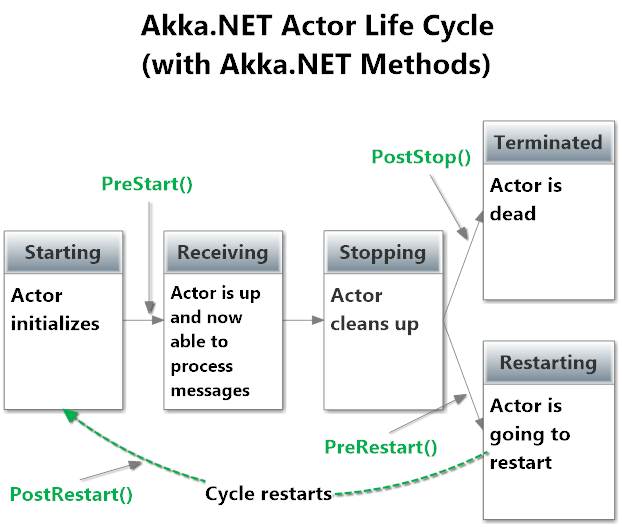
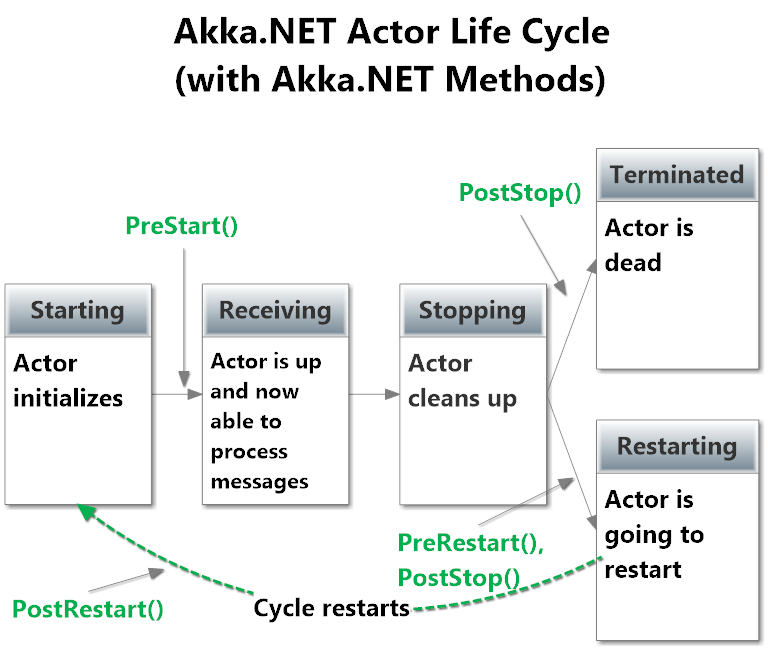
close #138

diff --git a/src/Unit-1/lesson6/README.md b/src/Unit-1/lesson6/README.md
@@ -49,7 +49,7 @@ So, how can you link into the actor life cycle? Here are the 4 places you can ho
 If your actor accidentally fails (i.e. throws an unhandled Exception) the actor's parent will restart the actor. `PreRestart` is where you can hook in to do cleanup before the actor restarts, or to save the current message for reprocessing later.
 
 #### `PostStop`
-`PostStop` is called once the actor has stopped and is no longer receiving messages. This is a good place to include clean-up logic. PostStop does not get called during actor restarts - only when an actor is being terminated.
+`PostStop` is called once the actor has stopped and is no longer receiving messages. This is a good place to include clean-up logic. PostStop also gets called during `PreRestart`, but you can override `PreRestart` and simply not call `base.PreRestart` if you want to avoid this behavior during restarts.
 
 `DeathWatch` is also when an actor notifies any other actors that have subscribed to be alerted when it terminates. `DeathWatch` is just a pub/sub system built into framework for any actor to be alerted to the termination of any other actor.
 
